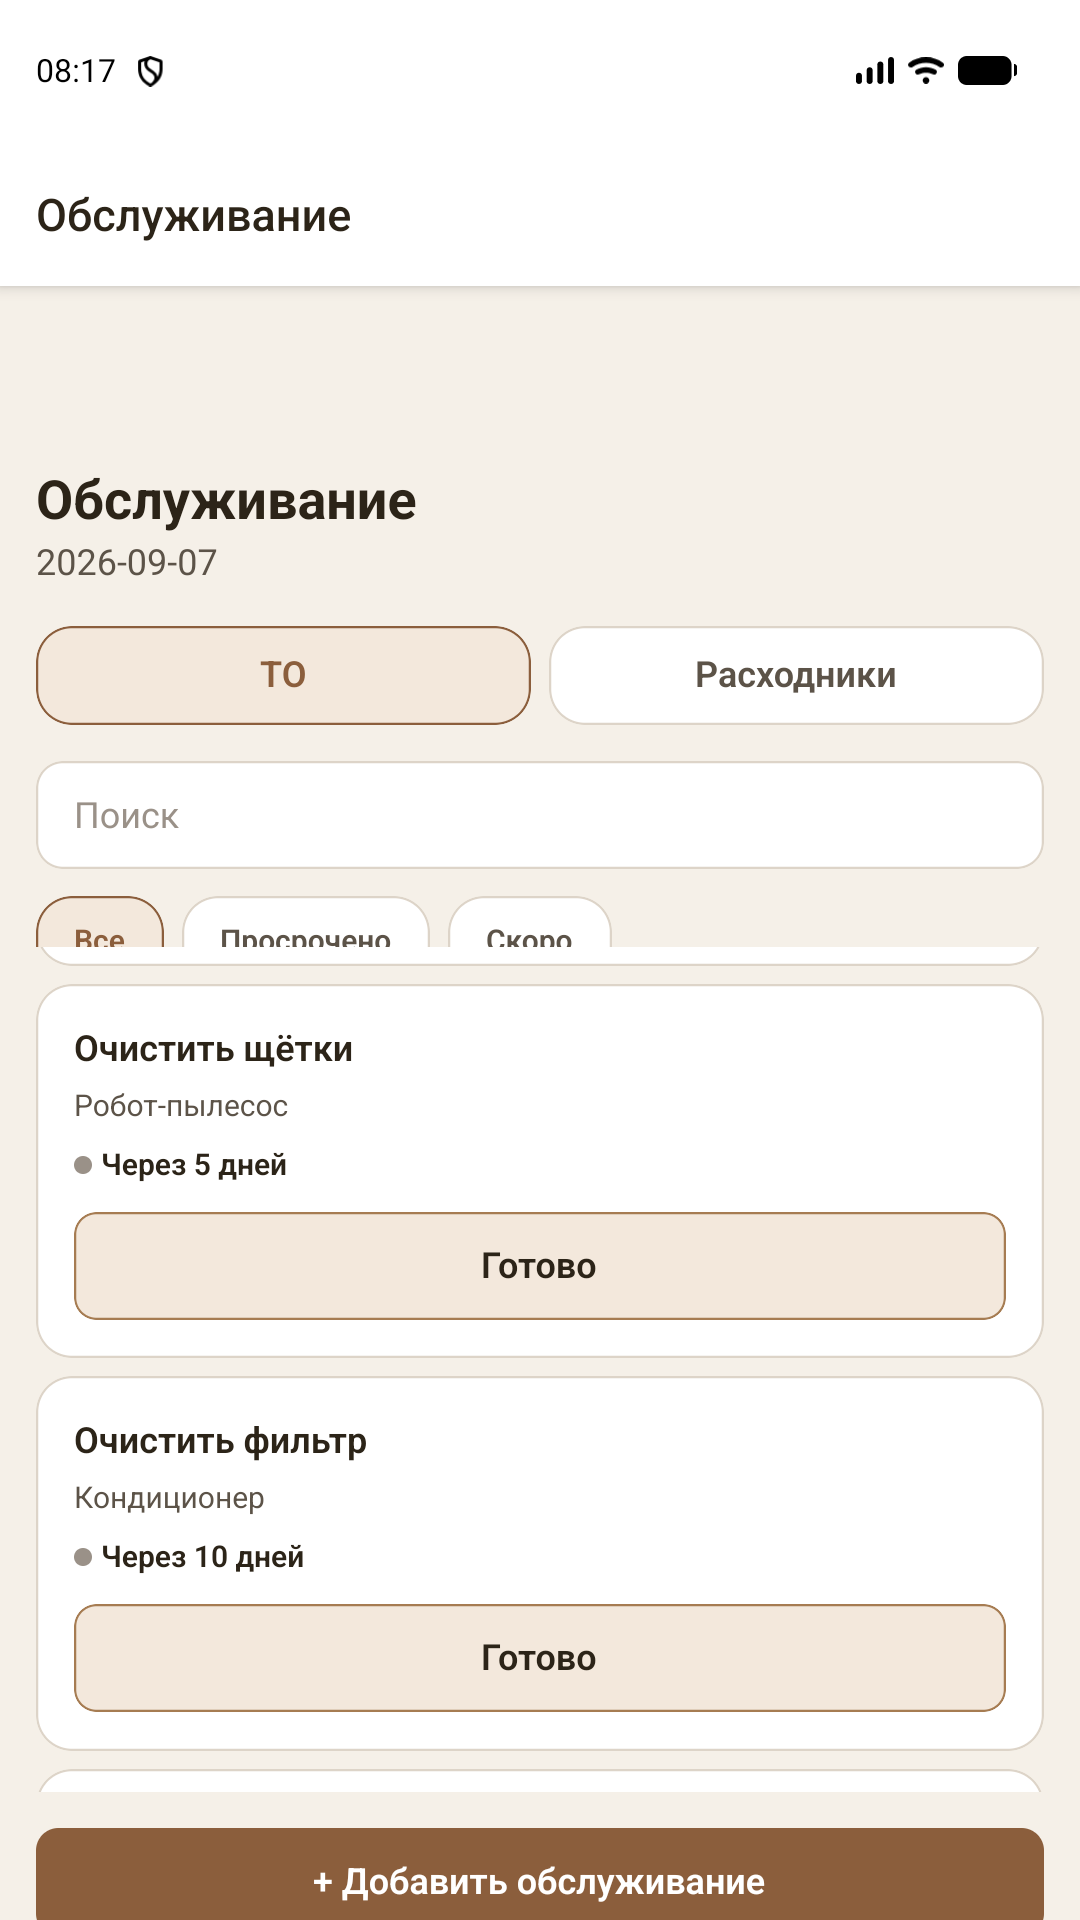
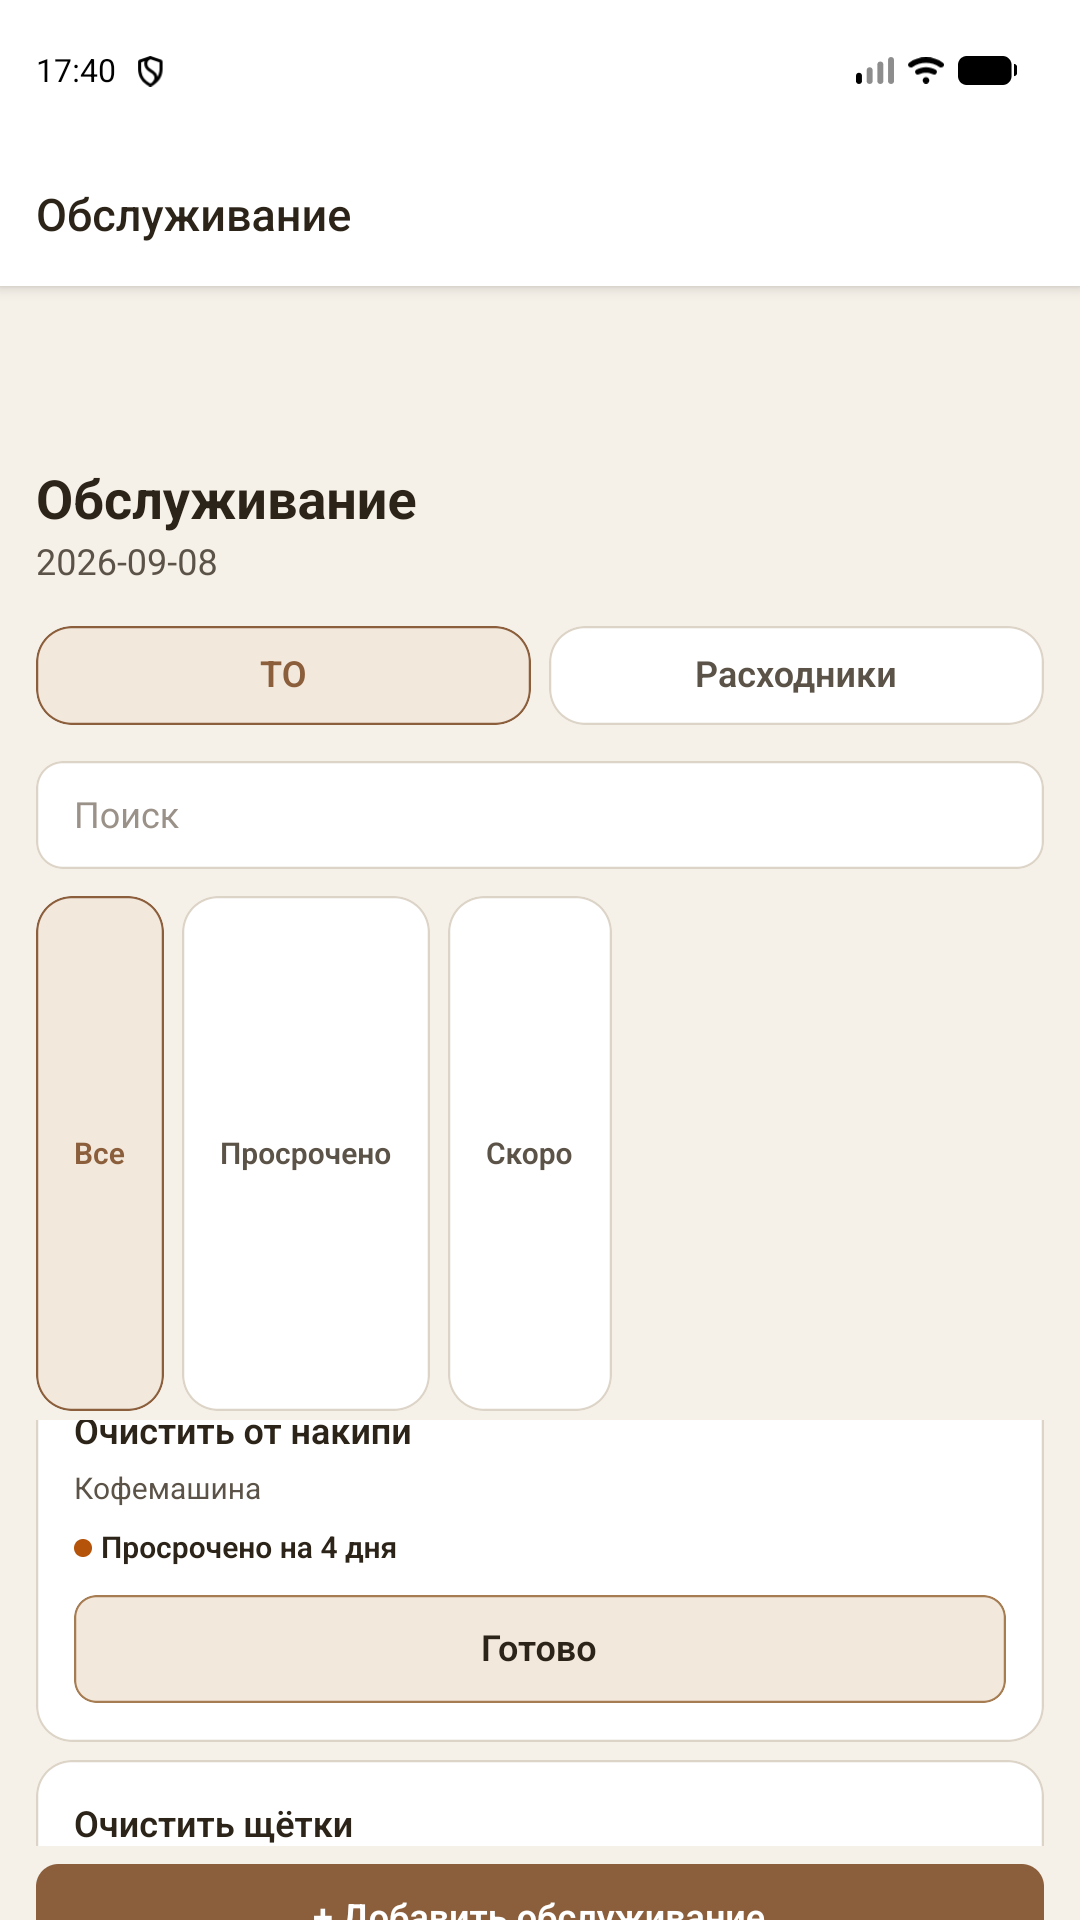
fix: finalize RuStore screenshots

diff --git a/release-assets/screenshots/README.md b/release-assets/screenshots/README.md
@@ -2,14 +2,14 @@
 
 Target format: **1080×1920** (portrait), cover-cropped without stretch.
 
-| filename | dimensions | ratio | size | purpose | PASS/FAIL |
+| filename | dimensions | ratio | size | visual purpose | PASS/FAIL |
 |---|---|---|---|---|---|
 | 01-today.png | 1080×1920 | 0.5625 | 128 KB | Smart Today attention + summary | PASS |
 | 02-inventory.png | 1080×1920 | 0.5625 | 141 KB | Inventory list with items/locations | PASS |
-| 03-item-detail.png | 1080×1920 | 0.5625 | 111 KB | Item detail (Робот-пылесос Dreame L20 Ultra) | PASS |
+| 03-item-detail.png | 1080×1920 | 0.5625 | 111 KB | Робот-пылесос Dreame L20 Ultra detail | PASS |
 | 04-documents.png | 1080×1920 | 0.5625 | 110 KB | Documents archive + add CTA | PASS |
-| 05-maintenance.png | 1080×1920 | 0.5625 | 103 KB | ТО list overdue/upcoming + add CTA | FAIL |
-| 06-consumables.png | 1080×1920 | 0.5625 | 104 KB | Consumables list + add CTA | FAIL |
+| 05-maintenance.png | 1080×1920 | 0.5625 | 98 KB | ТО list overdue/upcoming + add CTA | PASS |
+| 06-consumables.png | 1080×1920 | 0.5625 | 99 KB | Consumables list + add CTA | PASS |
 | 07-backup-export.png | 1080×1920 | 0.5625 | 86 KB | Backup / restore / export entry points | PASS |
 
 ## Validation checklist
@@ -19,30 +19,7 @@ Target format: **1080×1920** (portrait), cover-cropped without stretch.
 - No keyboard / notification shade / Metro / Expo menu
 - No system share sheet / permission dialogs
 - No test labels (`Test`, `Demo`, `Item 1`)
-- Bottom tabs / CTAs readable when in frame (no overlap)
+- Bottom tabs / CTAs readable when in frame
 
-Overall: **FAIL / CAPTURE PENDING** (recapture **05** and **06** after layout fix)
+Overall: **PASS**
 
-## Local recapture (after layout fix)
-
-Raw captures stay local under `release-assets/screenshots/raw/` (gitignored).
-Final store set lives in this folder only.
-
-```powershell
-cd D:\PetProject\myHomeRustore
-npm run seed:demo
-.\scripts\seed-rustore-demo.ps1 -Serial emulator-5556
-# Install/run debug app, then:
-.\scripts\capture-rustore-screenshots.ps1 -Serial emulator-5556 -Interactive
-# Or normalize existing raw only:
-.\scripts\capture-rustore-screenshots.ps1 -Serial emulator-5556 -SkipCapture
-```
-
-**Required recapture frames**
-
-| Slot | Screen | Notes |
-|---|---|---|
-| 05-maintenance.png | Tab **ТО** list | Full list + add CTA; no footer/tab overlap |
-| 06-consumables.png | Tab **Расходники** list | List + add CTA (not consumable detail) |
-
-Slots 01–04 and 07 may keep current final PNGs if still visually clean after QA.
